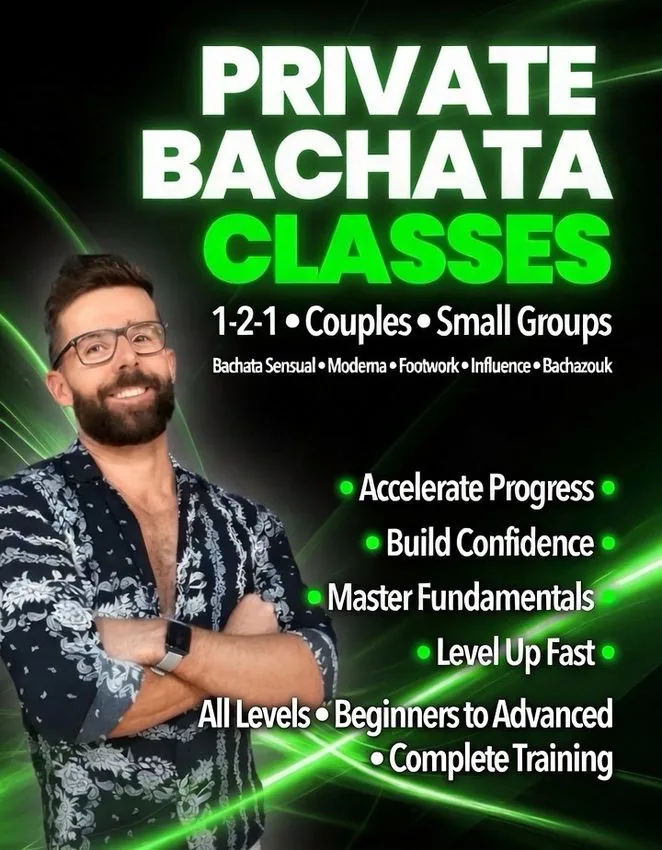
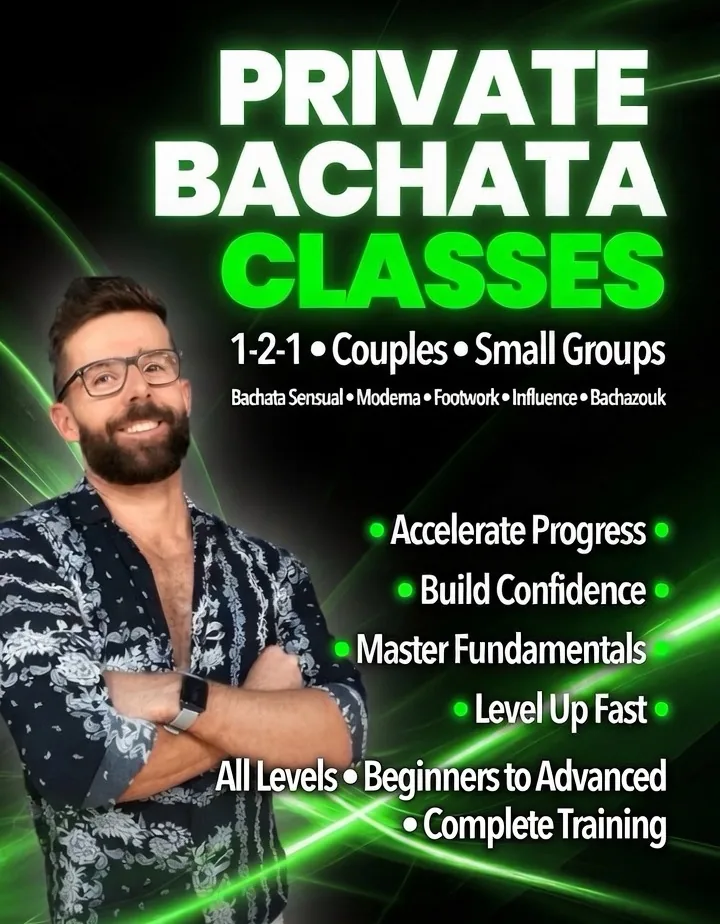
images to webp

diff --git a/index.html b/index.html
@@ -73,7 +73,7 @@
       "description": "Bachata dance school and community in Bristol. Weekly Monday and Wednesday split-level classes for all levels, Friday and Saturday parties, private lessons and monthly passes. No partner needed.",
       "url": "https://bristolbachata.co.uk/",
       "logo": "https://bristolbachata.co.uk/logo.jpg",
-      "image": ["https://bristolbachata.co.uk/main.jpg", "https://bristolbachata.co.uk/totosweekly.jpg"],
+      "image": ["https://bristolbachata.co.uk/main.webp", "https://bristolbachata.co.uk/totosweekly.jpg"],
       "telephone": "+447951514058",
       "priceRange": "££",
       "founder": { "@type": "Person", "name": "Jan Tabaka" },
@@ -180,7 +180,7 @@
         "eventStatus": "https://schema.org/EventScheduled",
         "eventAttendanceMode": "https://schema.org/OfflineEventAttendanceMode",
         "description": "Classes 8:00-10:15pm then social party 10:30pm-1:30am, 90% bachata plus salsa and kizomba. No partner needed, all levels welcome.",
-        "image": ["https://bristolbachata.co.uk/6Nov.jpg"],
+        "image": ["https://bristolbachata.co.uk/6Nov.webp"],
         "performer": { "@type": "Person", "name": "DJ Jan (Jan Tabaka)" },
         "location": {
           "@type": "Place",
@@ -208,7 +208,7 @@
         "eventStatus": "https://schema.org/EventScheduled",
         "eventAttendanceMode": "https://schema.org/OfflineEventAttendanceMode",
         "description": "Complimentary class 8:15-9pm then social party 9pm-1am, 90% bachata plus salsa and kizomba. No partner needed, all levels welcome.",
-        "image": ["https://bristolbachata.co.uk/20nov.jpg"],
+        "image": ["https://bristolbachata.co.uk/20nov.webp"],
         "performer": { "@type": "Person", "name": "DJ Jan (Jan Tabaka)" },
         "location": {
           "@type": "Place",
@@ -336,7 +336,7 @@
 
                     <div class="reveal relative">
                         <div class="relative rounded-2xl overflow-hidden border border-white/10 shadow-2xl">
-                            <img src="main.jpg" alt="Jan Tabaka, founder and head instructor of Bristol Bachata" width="662" height="662" loading="lazy" decoding="async" class="w-full h-auto object-cover">
+                            <img src="main.webp" alt="Jan Tabaka, founder and head instructor of Bristol Bachata" width="1024" height="1024" loading="lazy" decoding="async" class="w-full h-auto object-cover">
                             <div class="absolute inset-0 bg-gradient-to-t from-black/80 to-transparent flex flex-col justify-end p-8">
                                 <h3 class="text-2xl font-bold font-heading text-white">Jan Tabaka</h3>
                                 <p class="text-bbGreen font-medium">Founder, Head Instructor &amp; International Teacher</p>
@@ -556,7 +556,7 @@
                         </div>
 
                         <div class="reveal">
-                            <img src="6Nov.jpg" alt="Bristol Bachata party poster: Friday 6 November 2026 at Docklands Community Centre, Bristol" width="662" height="662" loading="lazy" decoding="async" class="w-full h-auto rounded-2xl border border-white/10 shadow-2xl">
+                            <img src="6Nov.webp" alt="Bristol Bachata party poster: Friday 6 November 2026 at Docklands Community Centre, Bristol" width="1080" height="1080" loading="lazy" decoding="async" class="w-full h-auto rounded-2xl border border-white/10 shadow-2xl">
                         </div>
                     </div>
 
@@ -600,7 +600,7 @@
                         </div>
 
                         <div class="reveal">
-                            <img src="20nov.jpg" alt="Bristol Bachata party poster: Friday 20 November 2026 at Docklands Community Centre, Bristol" width="662" height="662" loading="lazy" decoding="async" class="w-full h-auto rounded-2xl border border-white/10 shadow-2xl">
+                            <img src="20nov.webp" alt="Bristol Bachata party poster: Friday 20 November 2026 at Docklands Community Centre, Bristol" width="1080" height="1080" loading="lazy" decoding="async" class="w-full h-auto rounded-2xl border border-white/10 shadow-2xl">
                         </div>
                     </div>
                 </div>
@@ -623,7 +623,7 @@
                 </div>
 
                 <div class="private-grid reveal">
-                    <img src="private-classes.webp" width="662" height="850" loading="lazy" decoding="async" alt="Private Bachata Classes with Jan: 1-2-1, couples and small groups. Bachata Sensual, Moderna, Footwork, Influence and Bachazouk. All levels, beginners to advanced." class="private-poster rounded-2xl border border-white/10 shadow-[0_0_30px_rgba(74,222,128,0.15)]">
+                    <img src="private-classes.webp" width="720" height="924" loading="lazy" decoding="async" alt="Private Bachata Classes with Jan: 1-2-1, couples and small groups. Bachata Sensual, Moderna, Footwork, Influence and Bachazouk. All levels, beginners to advanced." class="private-poster rounded-2xl border border-white/10 shadow-[0_0_30px_rgba(74,222,128,0.15)]">
                     <div class="private-cards">
                         <div class="bg-bbCard p-8 rounded-2xl border border-white/10 flex flex-col hover:-translate-y-2 transition-transform duration-300">
                             <h3 class="text-xl font-bold text-white mb-2">1 Private Class</h3>
